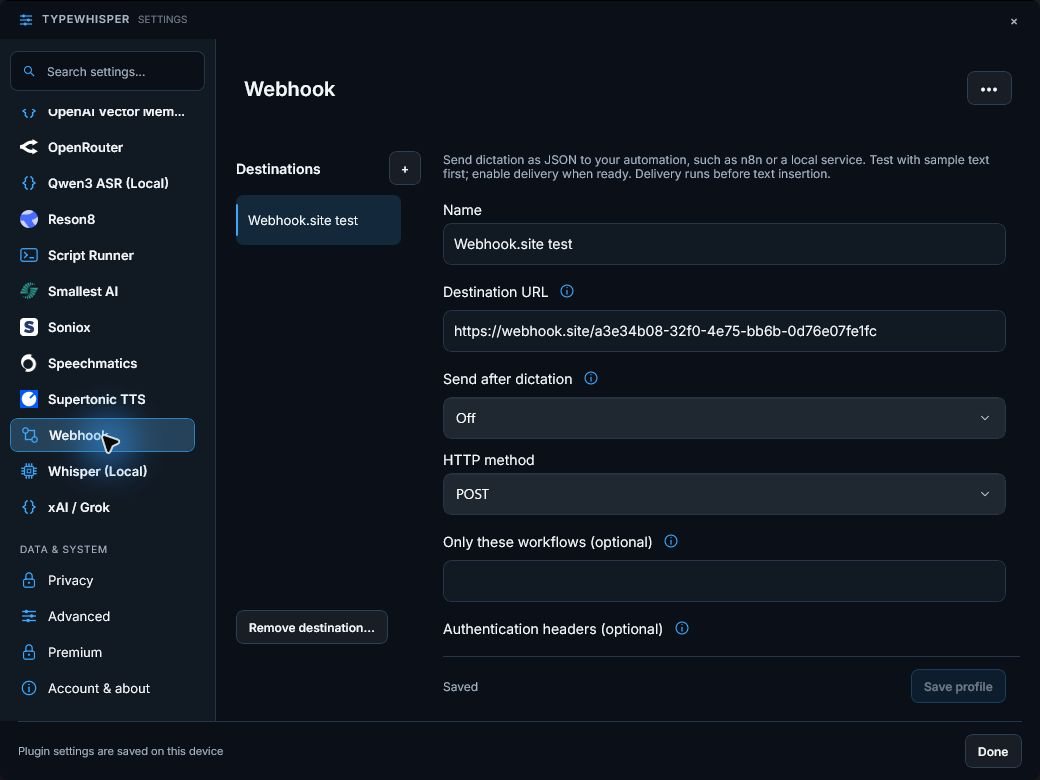
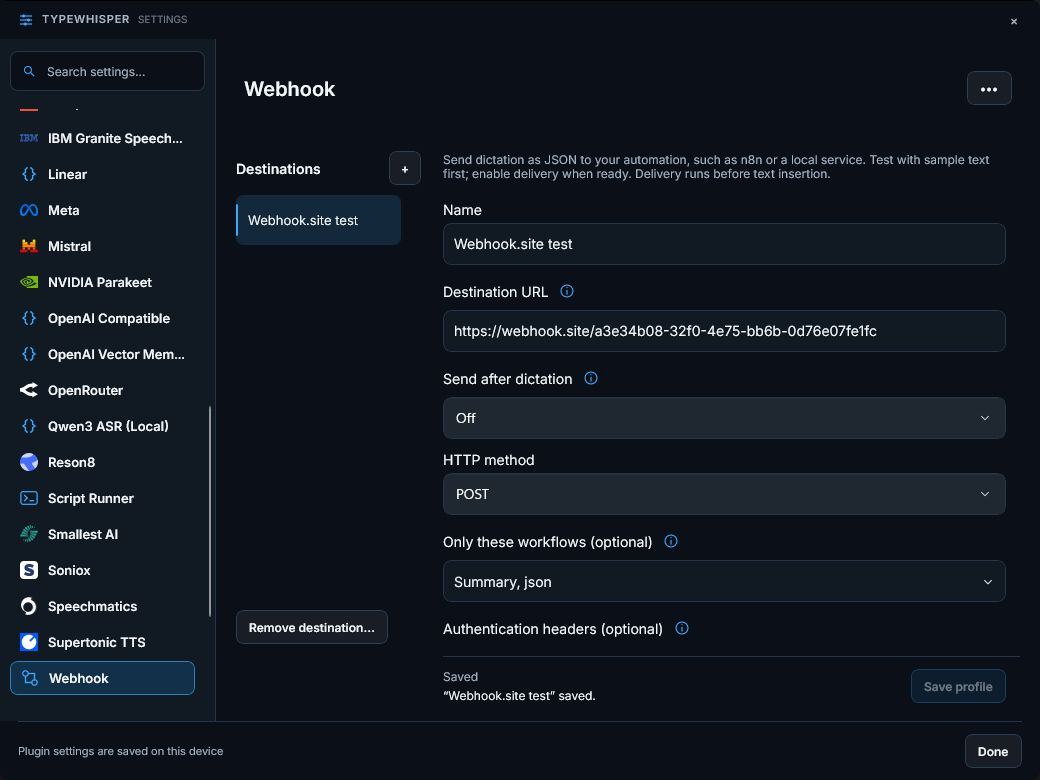
Select Webhook workflows with checkboxes and align text field padding

Changed region(s): [[0.0, 0.1231, 0.2154, 0.8923], [0.4308, 0.8615, 0.5231, 0.9231], [0.4308, 0.7385, 0.5231, 0.7692]]

diff --git a/src/TypeWhisper.WinUI/WebhookWorkflowPicker.cs b/src/TypeWhisper.WinUI/WebhookWorkflowPicker.cs
@@ -1,0 +1,125 @@
+using System.Globalization;
+using Microsoft.UI.Xaml;
+using Microsoft.UI.Xaml.Automation;
+using Microsoft.UI.Xaml.Controls;
+using Microsoft.UI.Xaml.Media;
+using TypeWhisper.Presentation;
+
+namespace TypeWhisper.WinUI;
+
+// Host-owned workflow selection preserves the plugin's existing newline-delimited contract.
+// No SDK upgrade is required, and older hosts can still edit the saved filter.
+internal sealed class WebhookWorkflowPicker : UserControl
+{
+    private readonly SortedSet<string> _selected;
+    private readonly Action<string> _changed;
+    private readonly int _maximum;
+    private readonly TextBlock _summary = new() { VerticalAlignment = VerticalAlignment.Center,
+        TextTrimming = TextTrimming.CharacterEllipsis, FontSize = 14 };
+    private static string L(string en, string de) => CultureInfo.CurrentUICulture.Name.StartsWith("de", StringComparison.OrdinalIgnoreCase) ? de : en;
+
+    internal WebhookWorkflowPicker(string value, int maximum, Action<string> changed)
+    {
+        _selected = new(value.Split(['\r', '\n'], StringSplitOptions.RemoveEmptyEntries | StringSplitOptions.TrimEntries), StringComparer.Ordinal);
+        _maximum = maximum; _changed = changed;
+        var row = new Grid { ColumnSpacing = 12 };
+        row.ColumnDefinitions.Add(new() { Width = new GridLength(1, GridUnitType.Star) });
+        row.ColumnDefinitions.Add(new() { Width = GridLength.Auto });
+        row.Children.Add(_summary);
+        var arrow = new FontIcon { Glyph = "\uE70D", FontSize = 10, VerticalAlignment = VerticalAlignment.Center };
+        Grid.SetColumn(arrow, 1); row.Children.Add(arrow);
+        var button = new HandCursorButton { Content = row, MinHeight = 40, Padding = new(10, 0, 12, 0),
+            HorizontalAlignment = HorizontalAlignment.Stretch, HorizontalContentAlignment = HorizontalAlignment.Stretch,
+            Background = new SolidColorBrush(Microsoft.UI.Colors.Transparent), BorderThickness = new(0) };
+        var flyout = new Flyout { Placement = Microsoft.UI.Xaml.Controls.Primitives.FlyoutPlacementMode.BottomEdgeAlignedLeft };
+        flyout.Opening += (_, _) => flyout.Content = BuildChoices();
+        button.Flyout = flyout;
+        Content = button;
+        void RefreshSummary()
+        {
+            _summary.Text = _selected.Count == 0 ? L("All workflows", "Alle Workflows") : string.Join(", ", _selected);
+            AutomationProperties.SetName(button, L("Choose workflows: ", "Workflows auswählen: ") + _summary.Text);
+            ToolTipService.SetToolTip(button, _summary.Text);
+        }
+        _refreshSummary = RefreshSummary;
+        RefreshSummary();
+    }
+    private readonly Action _refreshSummary;
+
+    private FrameworkElement BuildChoices()
+    {
+        var panel = new StackPanel { Spacing = 8, MinWidth = 280, MaxWidth = 460 };
+        var note = new TextBlock { TextWrapping = TextWrapping.Wrap, MaxWidth = 420, FontSize = 12,
+            Foreground = (Brush)Application.Current.Resources["MutedBrush"] };
+        AutomationProperties.SetLiveSetting(note, Microsoft.UI.Xaml.Automation.Peers.AutomationLiveSetting.Polite);
+        string[] names;
+        try
+        {
+            names = new ManualWorkflowStore(WinUIProfile.DataPath("workflows.json")).Read()
+                .Select(w => w.Name).Where(n => !n.Contains('\r') && !n.Contains('\n') && n == n.Trim())
+                .Distinct(StringComparer.Ordinal).Order(StringComparer.CurrentCultureIgnoreCase).ToArray();
+        }
+        catch (Exception ex) when (ex is not OutOfMemoryException)
+        {
+            note.Text = L("Workflows could not be loaded. Your saved selection is unchanged. Close and reopen this list to retry.",
+                "Workflows konnten nicht geladen werden. Deine gespeicherte Auswahl bleibt erhalten. Liste zum Wiederholen erneut öffnen.");
+            panel.Children.Add(note); return panel;
+        }
+        var all = new CheckBox { Content = L("All workflows", "Alle Workflows"), IsChecked = _selected.Count == 0 };
+        panel.Children.Add(all);
+        var hint = new TextBlock { Text = L("All includes dictation without a workflow. Changes take effect after saving.",
+            "Alle schließt Diktate ohne Workflow ein. Änderungen gelten nach dem Speichern."),
+            TextWrapping = TextWrapping.Wrap, MaxWidth = 420, FontSize = 12,
+            Foreground = (Brush)Application.Current.Resources["MutedBrush"] };
+        panel.Children.Add(hint);
+        panel.Children.Add(new Border { Height = 1, Background = (Brush)Application.Current.Resources["HairlineBrush"] });
+        var list = new StackPanel { Spacing = 4 };
+        var boxes = new Dictionary<string, CheckBox>(StringComparer.Ordinal);
+        var synchronizing = false;
+        void Synchronize()
+        {
+            synchronizing = true;
+            all.IsChecked = _selected.Count == 0;
+            foreach (var (name, box) in boxes) box.IsChecked = _selected.Contains(name);
+            synchronizing = false;
+            _refreshSummary();
+        }
+        void CommitDraft() { _changed(string.Join("\n", _selected)); note.Text = ""; Synchronize(); }
+        all.Checked += (_, _) => { if (synchronizing) return; _selected.Clear(); CommitDraft(); };
+        all.Unchecked += (_, _) => { if (!synchronizing && _selected.Count == 0) Synchronize(); };
+        foreach (var name in names.Concat(_selected.Except(names, StringComparer.Ordinal)))
+        {
+            var available = names.Contains(name, StringComparer.Ordinal);
+            var title = name + (available ? "" : L(" (unavailable)", " (nicht verfügbar)"));
+            var box = new CheckBox { Content = new TextBlock { Text = title, TextWrapping = TextWrapping.Wrap, MaxWidth = 380 }, IsChecked = _selected.Contains(name) };
+            AutomationProperties.SetName(box, title);
+            boxes.Add(name, box); list.Children.Add(box);
+            box.Checked += (_, _) =>
+            {
+                if (synchronizing) return;
+                _selected.Add(name);
+                if (string.Join("\n", _selected).Length > _maximum)
+                { _selected.Remove(name); note.Text = L("Too many workflows selected.", "Zu viele Workflows ausgewählt."); Synchronize(); return; }
+                CommitDraft();
+            };
+            box.Unchecked += (_, _) =>
+            {
+                if (synchronizing) return;
+                // An empty persisted filter means all. Never silently widen delivery by clearing the last item.
+                if (_selected.Count == 1 && _selected.Contains(name))
+                {
+                    note.Text = L("Select another workflow, choose All workflows, or turn off Send after dictation.",
+                        "Wähle einen anderen Workflow oder Alle Workflows, oder schalte Nach dem Diktieren senden aus.");
+                    Synchronize(); return;
+                }
+                _selected.Remove(name); CommitDraft();
+            };
+        }
+        if (names.Length == 0) list.Children.Add(new TextBlock { Text = L("No workflows yet. Create one in Workflows.",
+            "Noch keine Workflows. Lege zuerst einen unter Workflows an."), TextWrapping = TextWrapping.Wrap, MaxWidth = 420 });
+        panel.Children.Add(new ScrollViewer { Content = list, MaxHeight = 280,
+            VerticalScrollBarVisibility = ScrollBarVisibility.Auto, HorizontalScrollBarVisibility = ScrollBarVisibility.Disabled });
+        panel.Children.Add(note);
+        return panel;
+    }
+}

diff --git a/plugins-v2/TypeWhisper.Plugin.Webhook/WebhookPlugin.cs b/plugins-v2/TypeWhisper.Plugin.Webhook/WebhookPlugin.cs
@@ -25,7 +25,7 @@ public sealed partial class WebhookPlugin : IPostProcessorPlugin, IPluginProfile
     /// <inheritdoc />
     public string PluginName => "Webhook";
     /// <inheritdoc />
-    public string PluginVersion => "1.3.0";
+    public string PluginVersion => "1.3.1";
     /// <inheritdoc />
     public string ProcessorName => "Webhook delivery";
     /// <inheritdoc />
@@ -73,7 +73,7 @@ public sealed partial class WebhookPlugin : IPostProcessorPlugin, IPluginProfile
                 Field(e, "enabled", L("Send after dictation", "Nach dem Diktieren senden"), L("Off keeps the destination saved without sending dictations.", "Aus behält das Ziel gespeichert, ohne Diktate zu senden."), e.Enabled ? "true" : "false")
                     with { Choices = [new("false", L("Off", "Aus")), new("true", L("On", "An"))] },
                 Field(e, "method", L("HTTP method", "HTTP-Methode"), "", e.Method) with { Choices = [new("POST", "POST"), new("PUT", "PUT")] },
-                Field(e, "workflows", L("Only these workflows (optional)", "Nur diese Workflows (optional)"), L("One exact workflow name per line. Empty sends all dictations.", "Ein exakter Workflow-Name pro Zeile. Leer sendet alle Diktate."), e.Workflows, 4000) with { IsMultiline = true },
+                Field(e, "workflows", L("Only these workflows (optional)", "Nur diese Workflows (optional)"), L("Choose one or more workflows. All workflows also includes dictation without a workflow.", "Wähle einen oder mehrere Workflows. Alle Workflows schließt Diktate ohne Workflow ein."), e.Workflows, 4000) with { IsMultiline = true },
                 Field(e, "headers", L("Authentication headers (optional)", "Authentifizierungs-Header (optional)"),
                     L("JSON object, for example {\"Authorization\":\"Bearer ...\"}. Encrypted after saving. Blank keeps saved headers; {} removes them. Content-Type is automatic.",
                         "JSON-Objekt, z. B. {\"Authorization\":\"Bearer ...\"}. Nach dem Speichern verschlüsselt. Leer behält vorhandene Header, {} entfernt sie. Content-Type wird automatisch gesetzt."), "", 8192) with { IsMultiline = true }

diff --git a/src/TypeWhisper.WinUI/LivePluginTextSettings.Profiles.cs b/src/TypeWhisper.WinUI/LivePluginTextSettings.Profiles.cs
@@ -197,7 +197,12 @@ internal sealed partial class LivePluginTextSettings
             fieldGroups.Add(field.Id, group);
             group.Children.Add(SettingsHelp.Label(field.Title, field.Description));
             Control input;
-            if (field.Choices.Count > 0)
+            if (_id == "com.typewhisper.webhook" && field.Id.EndsWith(":workflows", StringComparison.Ordinal))
+            {
+                input = new WebhookWorkflowPicker(values[field.Id], field.MaxLength, value =>
+                { values[field.Id] = value; _drafts[field.Id] = value; UpdateDirty(); });
+            }
+            else if (field.Choices.Count > 0)
             {
                 var choice = new ComboBox { ItemsSource = field.Choices,
                     DisplayMemberPath = nameof(PluginSettingChoice.Title), SelectedValuePath = nameof(PluginSettingChoice.Value),
@@ -253,6 +258,7 @@ internal sealed partial class LivePluginTextSettings
             {
                 var text = new TextBox { Text = values[field.Id], MaxLength = Math.Clamp(field.MaxLength, 1, 32768),
                     MinHeight = 40, AcceptsReturn = field.IsMultiline,
+                    Padding = field.IsMultiline ? new Thickness(10, 10, 4, 10) : new Thickness(10, 0, 4, 0),
                     TextWrapping = field.IsMultiline ? TextWrapping.Wrap : TextWrapping.NoWrap,
                     Style = (Style)Application.Current.Resources[field.IsMultiline ? "LexiconMultilineStyle" : "SearchTextBoxStyle"] };
                 text.TextChanged += (_, _) => { values[field.Id] = text.Text; _drafts[field.Id] = text.Text; UpdateDirty(); };

diff --git a/plugins-v2/TypeWhisper.Plugin.Webhook/README.md b/plugins-v2/TypeWhisper.Plugin.Webhook/README.md
@@ -2,12 +2,12 @@
 
 Configurable POST/PUT post-processing webhooks with workflow filters, secret headers and a sanitized recent-delivery log.
 
-Version `1.3.0`; plugin ID `com.typewhisper.webhook`; minimum host `1.1.2`.
+Version `1.3.1`; plugin ID `com.typewhisper.webhook`; minimum host `1.1.2`.
 Independent branch: `seofood/webhook-portable`, updated to the current WinUI-only host.
 
 ## Setup
 
-Add a destination with the plus button, enter its HTTPS URL (HTTP only for loopback), and use **Send test message** before enabling automatic delivery. Save the destination's name, URL, method, workflow filter, enable switch and optional authentication headers together with **Save profile**. New destinations are disabled. Blank headers keep the existing secret; `{}` clears it. Test messages use the draft fields without saving or enabling the destination; saved credentials are never implicitly sent to a changed draft URL.
+Add a destination with the plus button, enter its HTTPS URL (HTTP only for loopback), and use **Send test message** before enabling automatic delivery. Save the destination's name, URL, method, workflow filter, enable switch and optional authentication headers together with **Save profile**. The WinUI workflow field offers checkboxes for existing workflows instead of free text, with an explicit **All workflows** choice (including dictation without a workflow). Missing saved workflow names remain visible as unavailable. Clearing the last selected workflow never implicitly broadens delivery to all. New destinations are disabled. Blank headers keep the existing secret; `{}` clears it. Test messages use the draft fields without saving or enabling the destination; saved credentials are never implicitly sent to a changed draft URL.
 
 Each enabled destination receives dictations as JSON. **Recent deliveries** reports HTTP status without exposing transcript text, response bodies, URLs or headers. A failed request preserves the dictation. Requests have a ten-second timeout per destination and do not follow redirects. Delivery runs before text insertion, so a slow endpoint can delay insertion.
 
@@ -35,3 +35,5 @@ The complete package is staged under `bin/Release/portable-host/Plugins/com.type
 The ZIP was installed and loaded in the WinUI development profile, preserving existing installation receipts. No credentials were copied from the legacy profile.
 
 The WinUI development host builds and launches through the shared development script. Current settings screenshots are in [`docs/screenshots/webhook/`](../../docs/screenshots/webhook/). Public catalog publication and production-profile migration are pending.
+
+WinUI acceptance for 1.3.1: selected and saved two real workflows, reopened their checked state, verified that removing the final selected item does not broaden delivery, restored the initial All workflows setting, and visually checked the vertically balanced caret in the header field. Automatic delivery stayed off throughout. Profile multiline fields now have symmetric vertical padding.
